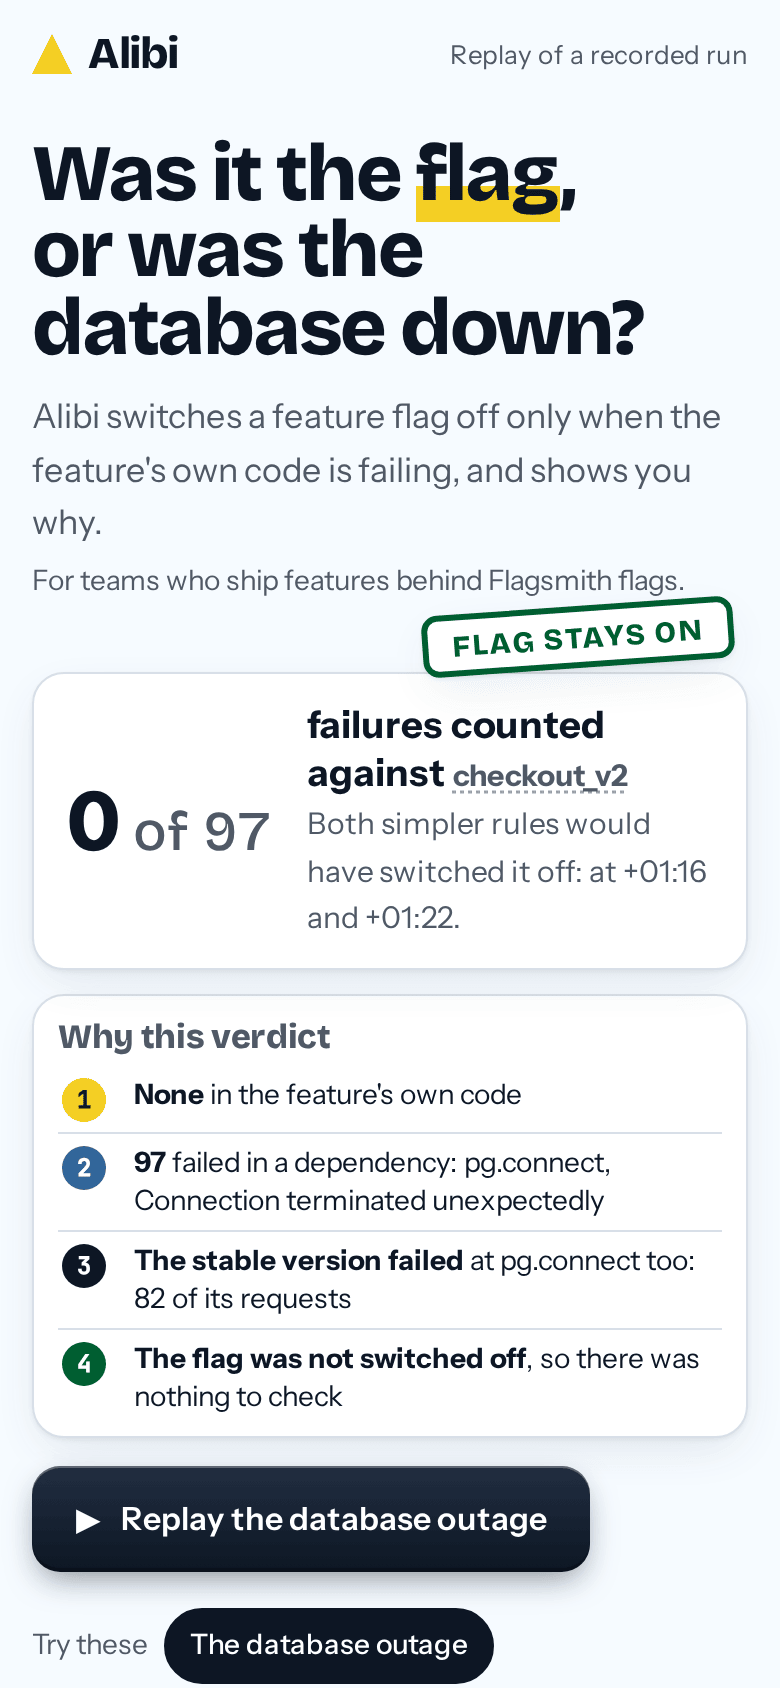
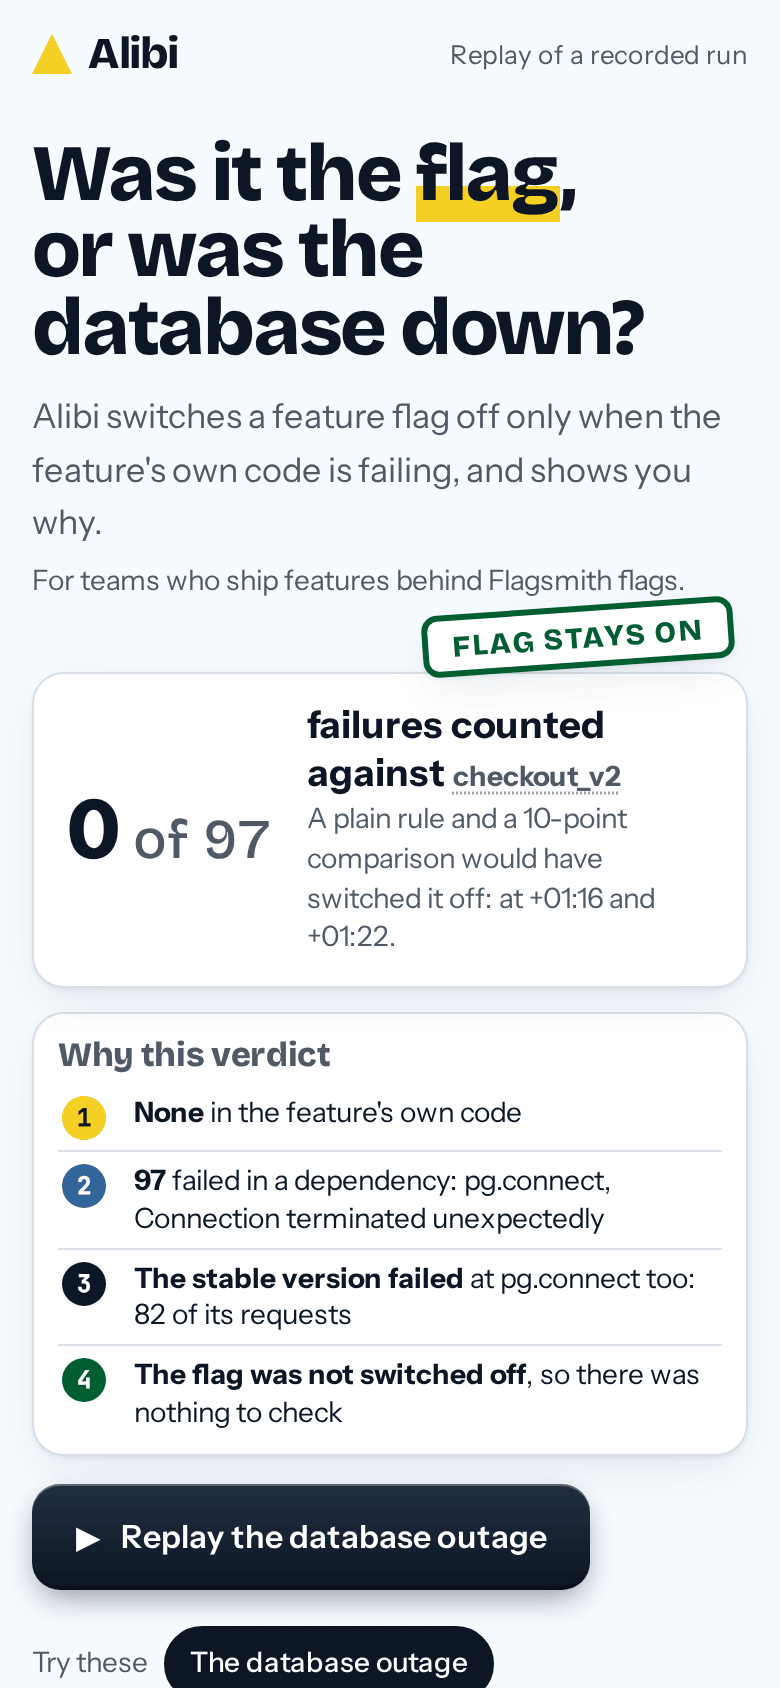
Page: the first-screen card names the margin of the comparison that would have switched off

Changed region(s): [[0.0308, 0.4313, 0.9538, 1.0], [0.0923, 0.4621, 0.3385, 0.5237]]

diff --git a/apps/web/src/lib/viewModel.test.ts b/apps/web/src/lib/viewModel.test.ts
@@ -25,7 +25,7 @@ describe('the view model reads the engine and adds nothing', () => {
     const two = simplerRules(board, true);
     expect(two.rules[0]!.text).toMatch(/^Plain error-rate rule: would have switched the flag off here, /);
     expect(two.rules[1]!.text).toMatch(/^Arm comparison \(flag on against stable\): would (not )?have switched the flag off/);
-    expect(simplerRulesShort(board, true)).toMatch(/^(Both simpler rules|The plain error-rate rule) would have switched it off/);
+    expect(simplerRulesShort(board, true)).toMatch(/^(A plain rule and a \d+-point comparison|A plain rule) would have switched it off/);
     expect(alibiLine(board, true)).toContain(`Alibi counted 0 of ${snap.state.totals.flagOn.failures}, so the flag stays on.`);
     expect(snap.record).toBeUndefined();
   });
@@ -142,7 +142,7 @@ describe.skipIf(!existsSync(realOutage))('against the recorded outage run', () =
     const two = simplerRules(board, true);
     expect(two.rules.map((x) => x.at)).toEqual(['+01:16', '+01:22']);
     expect(two.rules[1]!.text).toBe('Arm comparison (flag on against stable): would have switched the flag off here, flag on 39.1% against stable 28.8% over the last 60 seconds.');
-    expect(simplerRulesShort(board, true)).toBe('Both simpler rules would have switched it off: at +01:16 and +01:22.');
+    expect(simplerRulesShort(board, true)).toBe('A plain rule and a 10-point comparison would have switched it off: at +01:16 and +01:22.');
     expect(two.alibi).toMatch(/^Alibi counted 0 of 97, so the flag stays on\./);
     expect(two.sooner).toBeUndefined();
   });

diff --git a/apps/web/src/lib/format.ts b/apps/web/src/lib/format.ts
@@ -70,9 +70,11 @@ export function simplerRules(board: Board, finished: boolean): { rules: SimplerR
 export function simplerRulesShort(board: Board, finished: boolean): string {
   const p = board.state.plainRuleTrippedAtMs;
   const a = board.state.armRuleTrippedAtMs;
-  if (p !== undefined && a !== undefined) return `Both simpler rules would have switched it off: at ${rel(board, p)} and ${rel(board, a)}.`;
-  if (p !== undefined) return `The plain error-rate rule would have switched it off at ${rel(board, p)}.`;
-  if (a !== undefined) return `The arm comparison would have switched it off at ${rel(board, a)}.`;
+  // The comparison is named by the margin this run was read at, so it cannot be mistaken for the 20-point rule.
+  const arm = `${(board.state.config.armRule ?? DEFAULT_ARM_RULE).errorRatePoints}-point comparison`;
+  if (p !== undefined && a !== undefined) return `A plain rule and a ${arm} would have switched it off: at ${rel(board, p)} and ${rel(board, a)}.`;
+  if (p !== undefined) return `A plain rule would have switched it off at ${rel(board, p)}.`;
+  if (a !== undefined) return `A ${arm} would have switched it off at ${rel(board, a)}.`;
   return finished ? 'Neither simpler rule would have switched it off.' : 'Two simpler rules are watching the same requests.';
 }
 

diff --git a/apps/web/e2e/first-screen.spec.ts b/apps/web/e2e/first-screen.spec.ts
@@ -73,7 +73,7 @@ test('two simpler rules are shown beside Alibi, in the engine\'s words, on every
   await expect(card).toContainText('Plain error-rate rule: would have switched the flag off here', { useInnerText: true });
   await expect(card).toContainText('Arm comparison (flag on against stable): would have switched the flag off here, flag on 39.1% against stable 28.8% over the last 60 seconds.', { useInnerText: true });
   await expect(card).toContainText('Alibi counted 0 of 97, so the flag stays on. 97 failed in a dependency.', { useInnerText: true });
-  await expect(page.getByText('Both simpler rules would have switched it off: at +01:16 and +01:22.')).toBeVisible();
+  await expect(page.getByText('A plain rule and a 10-point comparison would have switched it off: at +01:16 and +01:22.')).toBeVisible();
   await expect(card).not.toContainText('acted sooner');
 
   await page.goto('./?run=coupon-bug');

diff --git a/apps/web/src/styles/app.css b/apps/web/src/styles/app.css
@@ -204,3 +204,4 @@ a.f-row{text-decoration:none;color:inherit}
 .plug pre{white-space:pre-wrap;overflow-wrap:anywhere;font-size:12px}
 .plug .steps>div{min-width:0}
 @media(min-width:901px){.plug .steps{grid-template-columns:1fr 1.3fr 1fr}}
+@media(max-width:900px){.verdict .v-line span{font-size:14px;line-height:1.4}}
